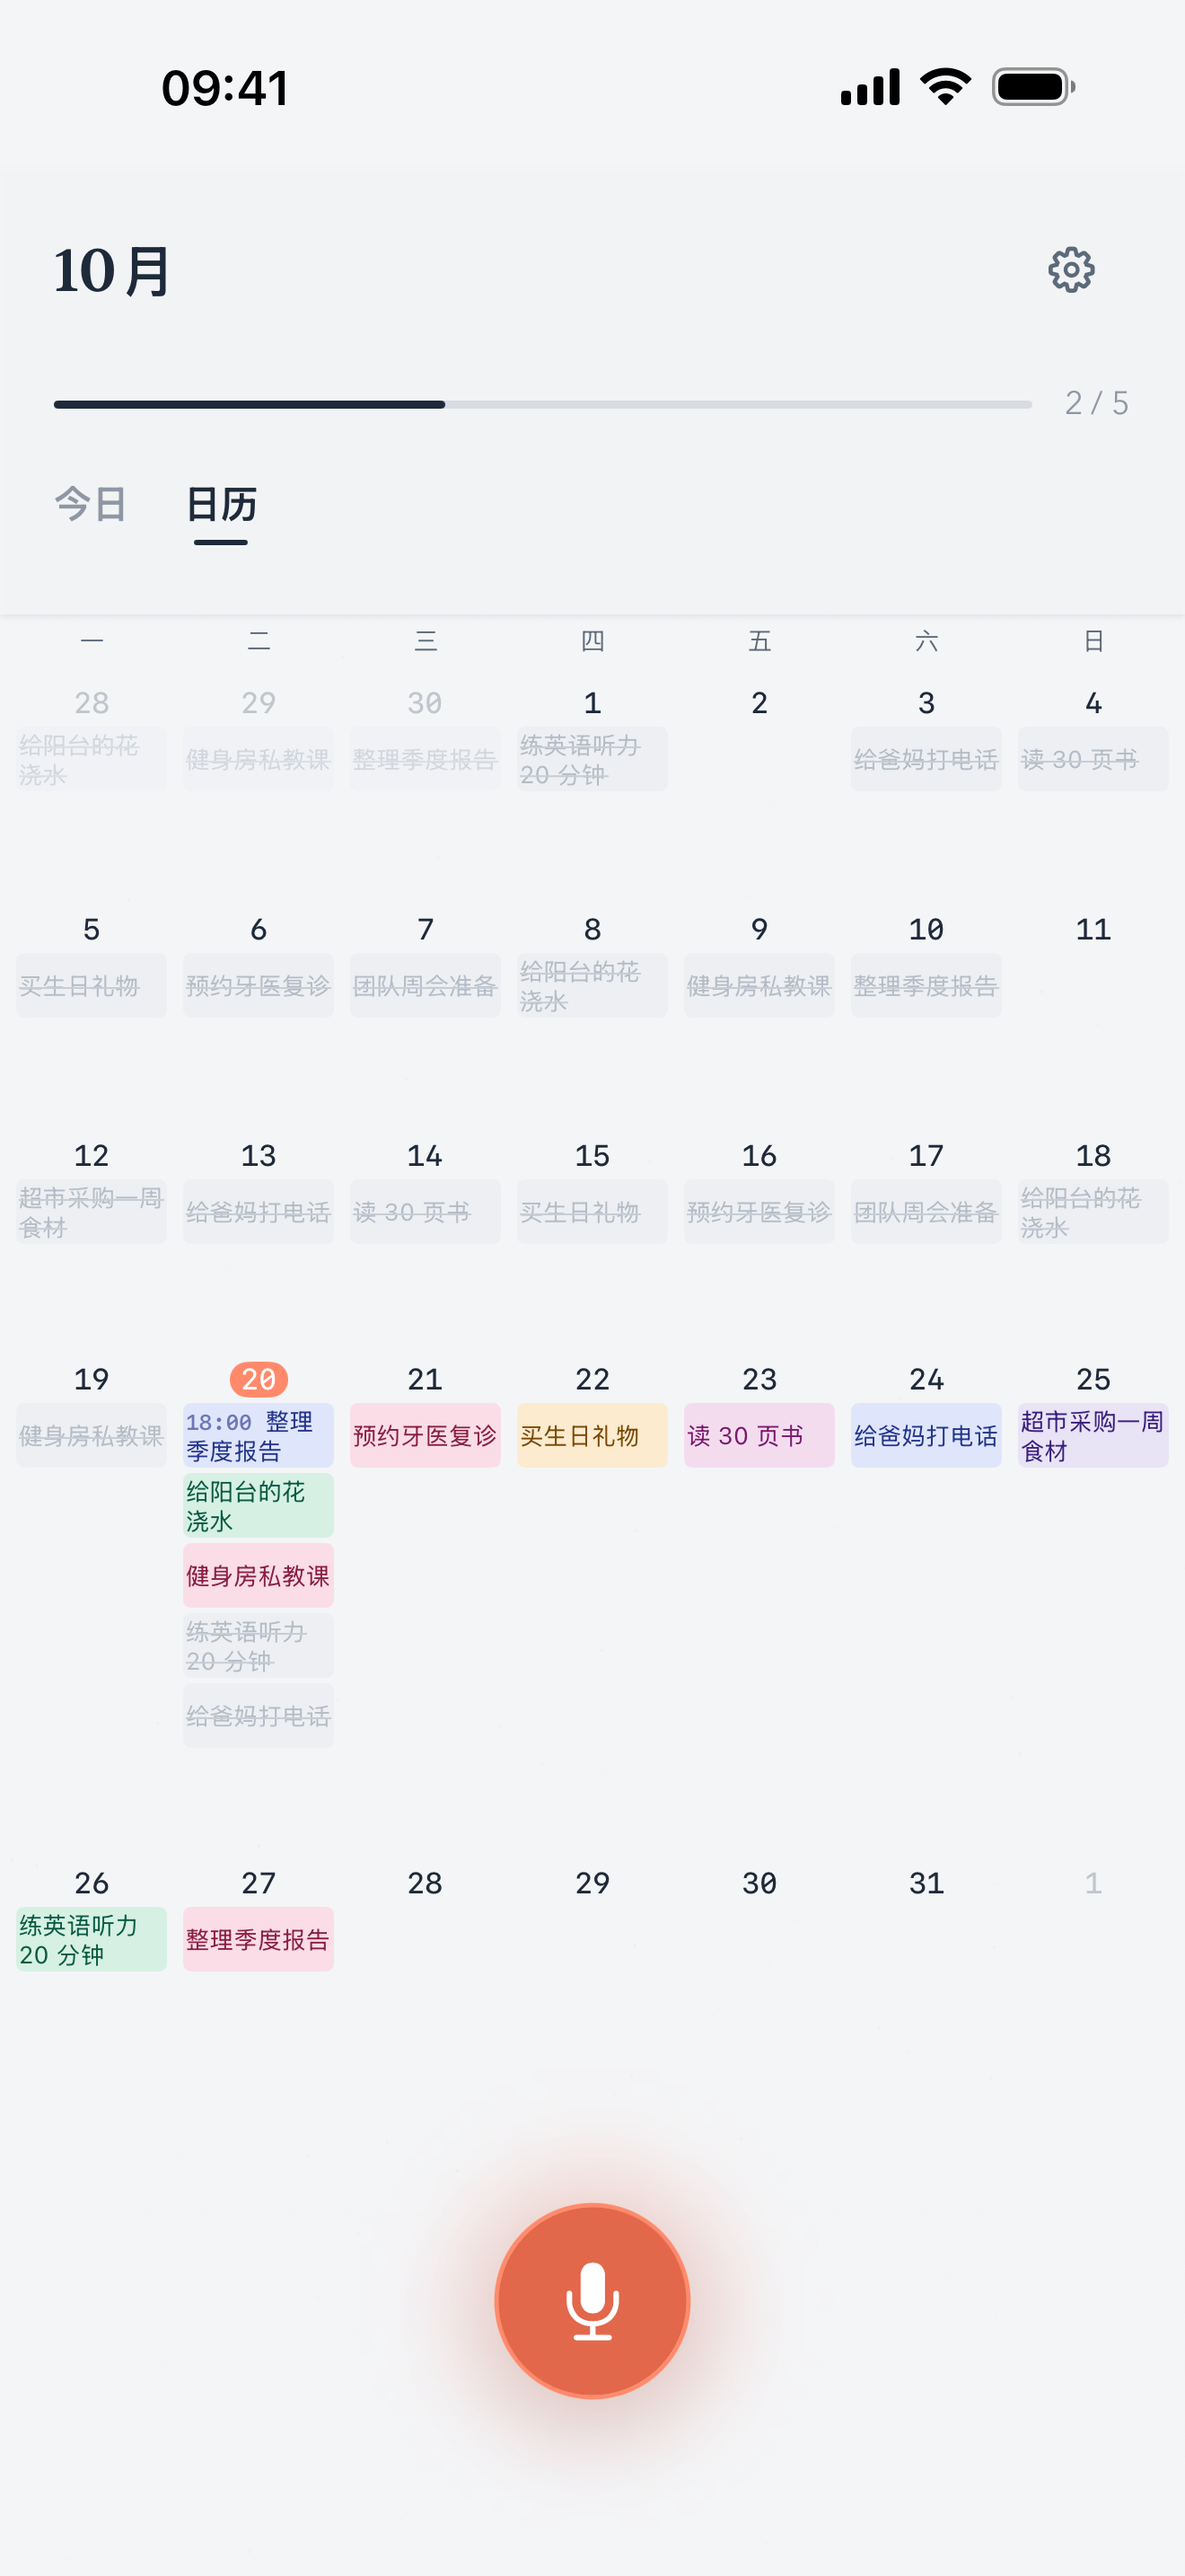
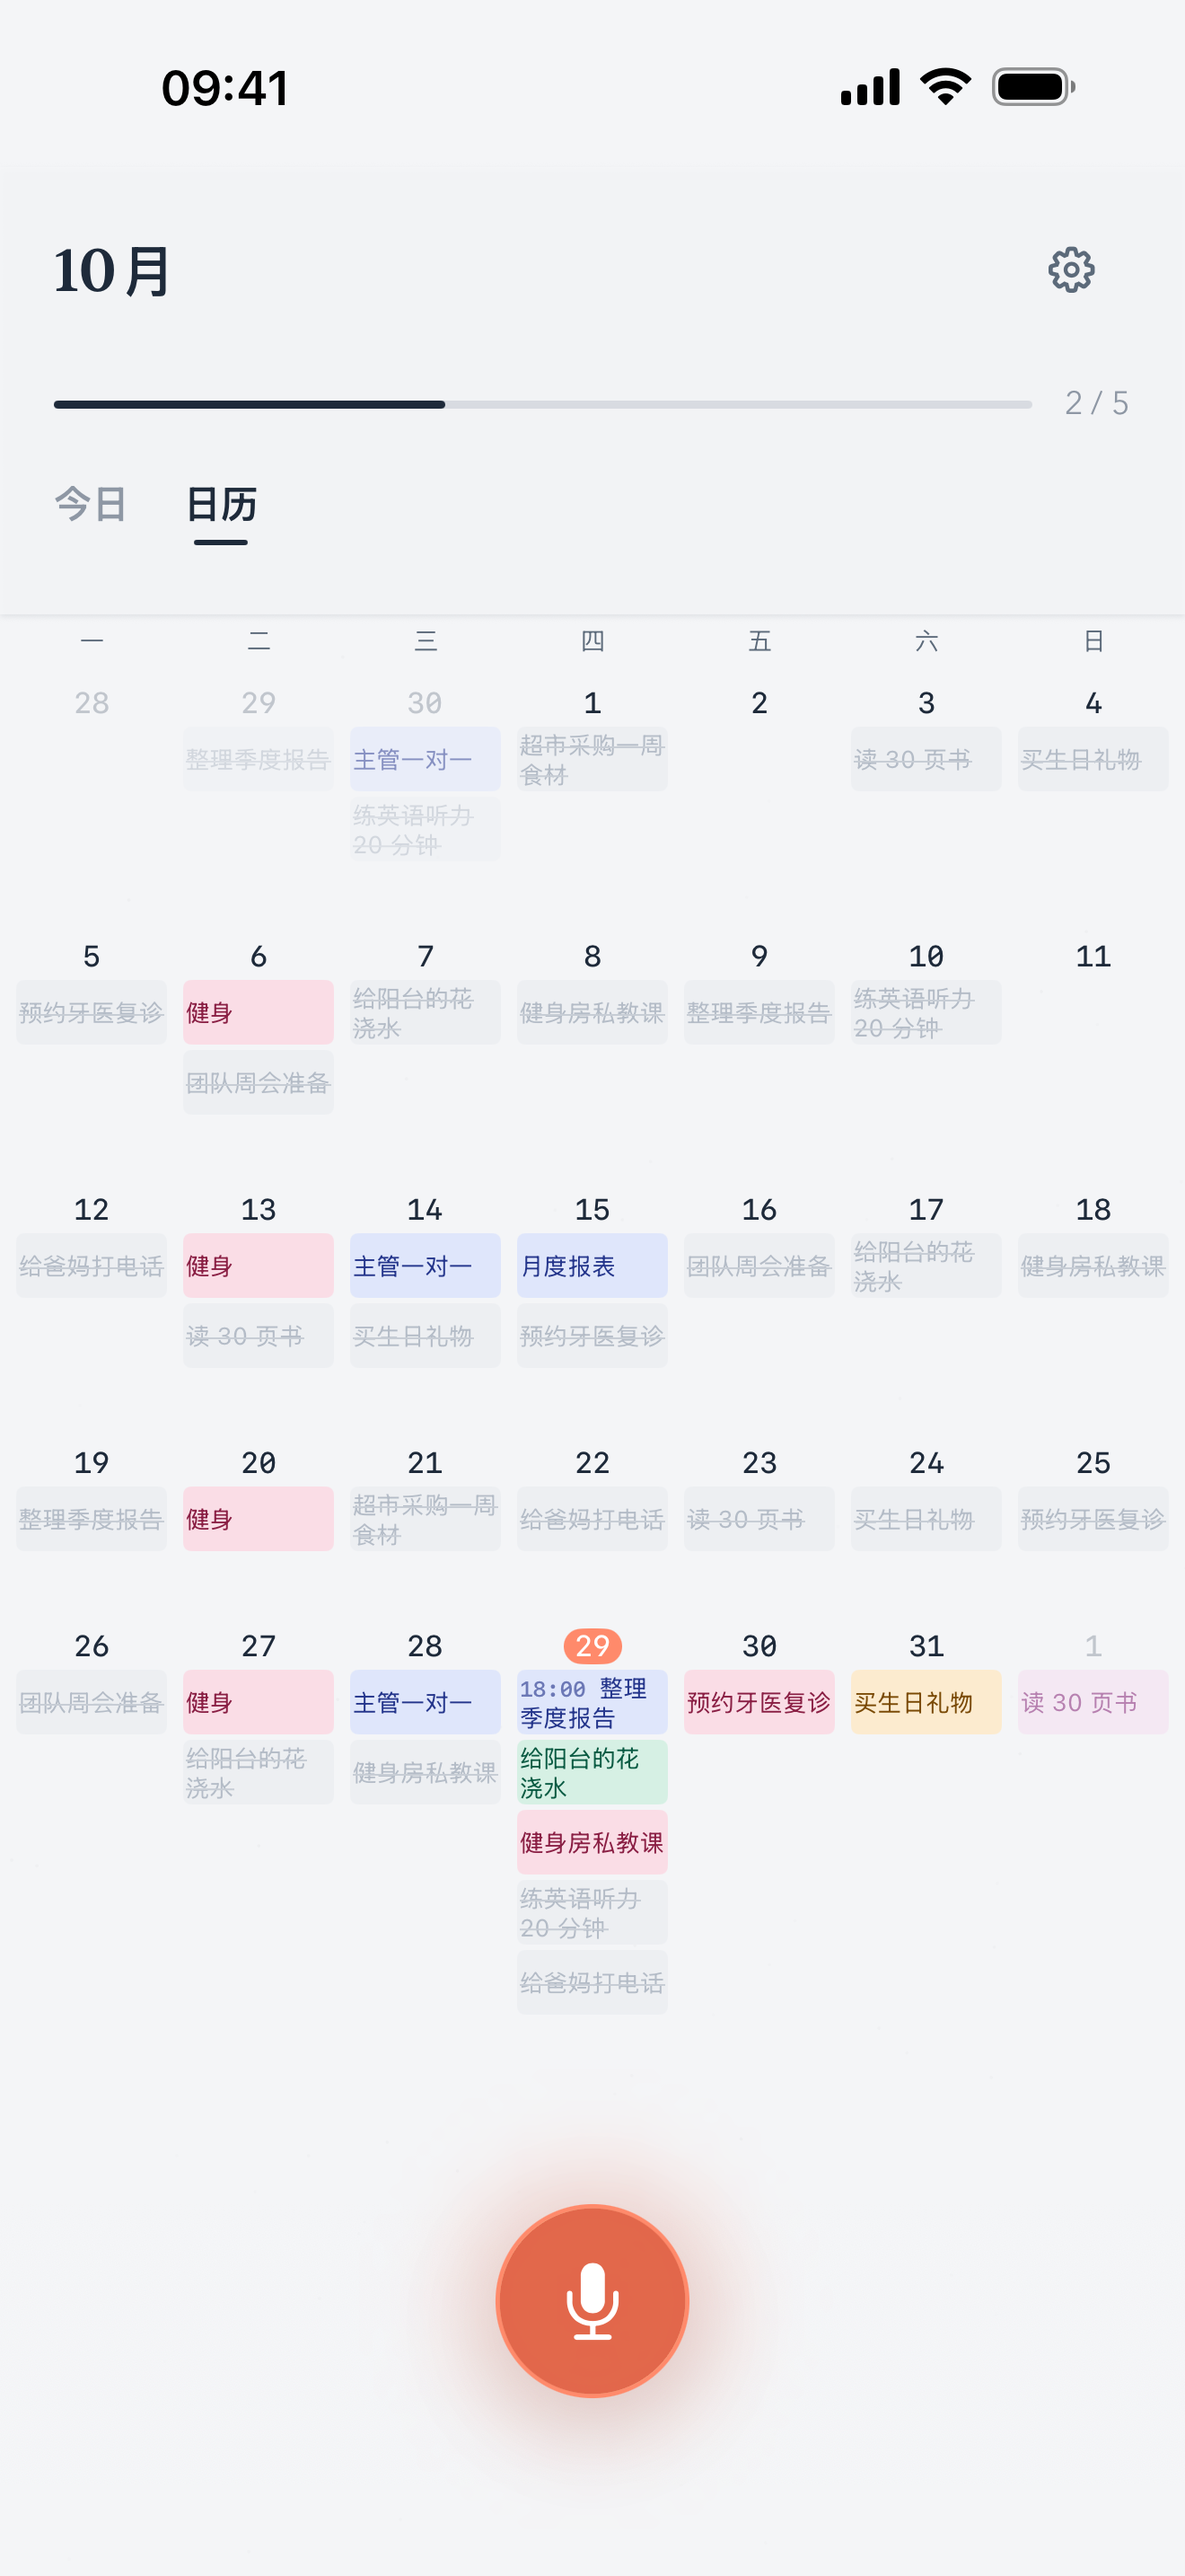
feat(screenshots): 种子数据新增周期性待办,月历视图呈现三种重复节奏
Why:
App Store 截图的月历画面(03-month)只展示一次性待办,周期重复(每周/
每两周/每月)作为核心卖点在截图里零体现,用户拍板重截全套并补周期节奏。

What:
- VoiceTodoUITests/ScreenshotUITests.swift:seedJSON() 新增 recurrenceJSON/
  weekdayAnchor/lastMonthDay helper,item() 支持 recurrenceRule;种子追加
  三条周期待办(zh: 健身·每周二/主管一对一·每两周周三/月度报表·每月15号,
  en: Gym/Manager 1:1/Monthly report),标题收进 LanguagePass.recurringTitles。
- screenshots/{zh,en}/ 12 张全量重产(1320×2868,状态栏 9:41 统一)。
- marketing/out/{zh,en}/ 14 张成品随 raw 重渲染(B 版衬线暖纸)。

Impact:
- 三条周期待办今日不 occurs、无完成记录,04-today/05-review 画面不变;
  锚点经独立脚本 400 天扫描验证(月视图 weekly 4~5 个/biweekly 2~3/monthly 1)。
- 双 review 循环(Three Check + code-review-expert)2 轮收敛;
  SPM 348/349(唯一红灯为已知 CN 时区 DST 基线,非回归)。

diff --git a/VoiceTodoUITests/ScreenshotUITests.swift b/VoiceTodoUITests/ScreenshotUITests.swift
@@ -36,6 +36,9 @@ final class ScreenshotUITests: XCTestCase {
         let expectedExtractTitles: [String]
         /// onboarding 演示步大标题(onboarding.demo.title)—— 演示步就绪信号。
         let demoStepTitle: String
+        /// 周期性种子标题(shot 03 月视图节奏感):每周二 / 每两周周三 / 每月 15 号。
+        /// 标题刻意短(月历格子条宽有限)。
+        let recurringTitles: (weekly: String, biweekly: String, monthly: String)
     }
 
     private var languagePasses: [LanguagePass] {
@@ -49,7 +52,8 @@ final class ScreenshotUITests: XCTestCase {
                     "超市采购一周食材", "练英语听力 20 分钟",
                 ],
                 expectedExtractTitles: ["去银行办卡", "买菜", "给老妈打电话"],
-                demoStepTitle: "一句话，就整理好了"
+                demoStepTitle: "一句话，就整理好了",
+                recurringTitles: (weekly: "健身", biweekly: "主管一对一", monthly: "月度报表")
             ),
             LanguagePass(
                 tag: "en", appleLocale: "en_US", suffix: "en",
@@ -61,7 +65,8 @@ final class ScreenshotUITests: XCTestCase {
                     "20 min listening practice",
                 ],
                 expectedExtractTitles: ["Go to the bank", "Buy groceries", "Call mom"],
-                demoStepTitle: "One sentence, neatly done"
+                demoStepTitle: "One sentence, neatly done",
+                recurringTitles: (weekly: "Gym", biweekly: "Manager 1:1", monthly: "Monthly report")
             ),
         ]
     }
@@ -373,8 +378,67 @@ final class ScreenshotUITests: XCTestCase {
             return date.timeIntervalSinceReferenceDate
         }
 
+        /// 往回找最近的指定 weekday(含今天),再前推 weeksBack 周 —— 作为重复系列的
+        /// dueDate 锚点。weekly 锚 3 周前 → 本月稳定出现 4~5 个目标日(罕见排布下
+        /// 月内首个目标日落在锚点前被 occurs 的 start 闸滤掉);biweekly 锚 4 周
+        /// 前 → 本月隔周出现 2~3 个。weekday 语义同 RecurrenceRule(1=周日 ... 7=周六)。
+        func weekdayAnchor(_ weekday: Int, weeksBack: Int, hour: Int) throws -> Double {
+            precondition((1...7).contains(weekday),
+                          "weekday 须为 1(周日)...7(周六),当前 \(weekday)")
+            var date = todayStart
+            while calendar.component(.weekday, from: date) != weekday {
+                date = try XCTUnwrap(
+                    calendar.date(byAdding: .day, value: -1, to: date),
+                    "weekday 锚点回溯失败(weekday=\(weekday))"
+                )
+            }
+            let anchored = try XCTUnwrap(
+                calendar.date(byAdding: DateComponents(hour: hour, weekOfYear: -weeksBack), to: date),
+                "weekday 锚点前推失败(weeksBack=\(weeksBack))"
+            )
+            return anchored.timeIntervalSinceReferenceDate
+        }
+
+        /// 上月 day 号 —— monthly 系列锚点,保证本月 day 号必出现(occurs 的 start 闸已过)。
+        /// Calendar 没有 bySetting(.day, of: .month) 签名,用 year/month 组件拼本月
+        /// day 号,再 byAdding(.month, -1) 回退(自动处理跨年)。
+        /// 注意 date(from:) 对超界 day(如 4 月 31)会静默滚到下月,故解出后校验
+        /// day 分量一致,滚月按锚点失败显式抛出(合法 day 1...28 不受影响)。
+        func lastMonthDay(_ day: Int, hour: Int) throws -> Double {
+            var comps = calendar.dateComponents([.year, .month], from: todayStart)
+            comps.day = day
+            comps.hour = hour
+            let thisMonthDay = try XCTUnwrap(
+                calendar.date(from: comps).flatMap { candidate in
+                    calendar.component(.day, from: candidate) == day ? candidate : nil
+                },
+                "monthly 锚点失败(day=\(day)):该月不含 \(day) 号(date(from:) 会把超界 day 静默滚到下月)"
+            )
+            let anchored = try XCTUnwrap(
+                calendar.date(byAdding: .month, value: -1, to: thisMonthDay),
+                "monthly 锚点前推失败(day=\(day))"
+            )
+            return anchored.timeIntervalSinceReferenceDate
+        }
+
         let categories = ["work", "study", "life", "health", "finance", "social"]
         var index = 0
+
+        /// RecurrenceRule 的最小 JSON 形状(对齐 Protocols/Domain/RecurrenceRule.swift
+        /// 的 CodingKeys;interval/weekdays/dayOfMonth 均 decodeIfPresent 可省)。
+        func recurrenceJSON(
+            frequency: String,
+            interval: Int = 1,
+            weekdays: [Int] = [],
+            dayOfMonth: Int? = nil
+        ) -> String {
+            var fields = ["\"frequency\":\"\(frequency)\"", "\"interval\":\(interval)"]
+            if !weekdays.isEmpty {
+                fields.append("\"weekdays\":[\(weekdays.map(String.init).joined(separator: ","))]")
+            }
+            if let dayOfMonth { fields.append("\"dayOfMonth\":\(dayOfMonth)") }
+            return "{" + fields.joined(separator: ",") + "}"
+        }
 
         func item(
             _ title: String,
@@ -383,6 +447,7 @@ final class ScreenshotUITests: XCTestCase {
             priority: String = "normal",
             hasDueTime: Bool = false,
             due: Double,
+            recurrence: String? = nil,
             isCompleted: Bool = false,
             completedAt: Double? = nil
         ) -> String {
@@ -394,6 +459,7 @@ final class ScreenshotUITests: XCTestCase {
                 "\"hasDueTime\":\(hasDueTime)",
             ]
             if let timeBucket { fields.append("\"timeBucket\":\"\(timeBucket)\"") }
+            if let recurrence { fields.append("\"recurrenceRule\":\(recurrence)") }
             fields.append("\"priority\":\"\(priority)\"")
             fields.append("\"category\":\"\(category)\"")
             fields.append("\"isCompleted\":\(isCompleted)")
@@ -440,6 +506,23 @@ final class ScreenshotUITests: XCTestCase {
                 due: try at(day, 10 + day % 3)
             ))
         }
+
+        // 周期性 3 条(shot 03 月视图的节奏感来源):每周二 / 每两周周三 / 每月 15 号。
+        // 标题见 LanguagePass.recurringTitles;锚点越早本月出现越全,见 weekdayAnchor 注释。
+        // 锚点 weekday 与规则 weekdays 必须同值(锚定周几=重复周几),收进常量防改单边。
+        let weeklyWeekday = 3   // 周二
+        let biweeklyWeekday = 4 // 周三
+        let monthlyDay = 15
+        let recurring = pass.recurringTitles
+        objects.append(item(recurring.weekly, category: "health", timeBucket: "evening",
+                            due: try weekdayAnchor(weeklyWeekday, weeksBack: 3, hour: 18),
+                            recurrence: recurrenceJSON(frequency: "weekly", weekdays: [weeklyWeekday])))
+        objects.append(item(recurring.biweekly, category: "work",
+                            due: try weekdayAnchor(biweeklyWeekday, weeksBack: 4, hour: 10),
+                            recurrence: recurrenceJSON(frequency: "weekly", interval: 2, weekdays: [biweeklyWeekday])))
+        objects.append(item(recurring.monthly, category: "work",
+                            due: try lastMonthDay(monthlyDay, hour: 9),
+                            recurrence: recurrenceJSON(frequency: "monthly", dayOfMonth: monthlyDay)))
 
         return "[" + objects.joined(separator: ",") + "]"
     }
